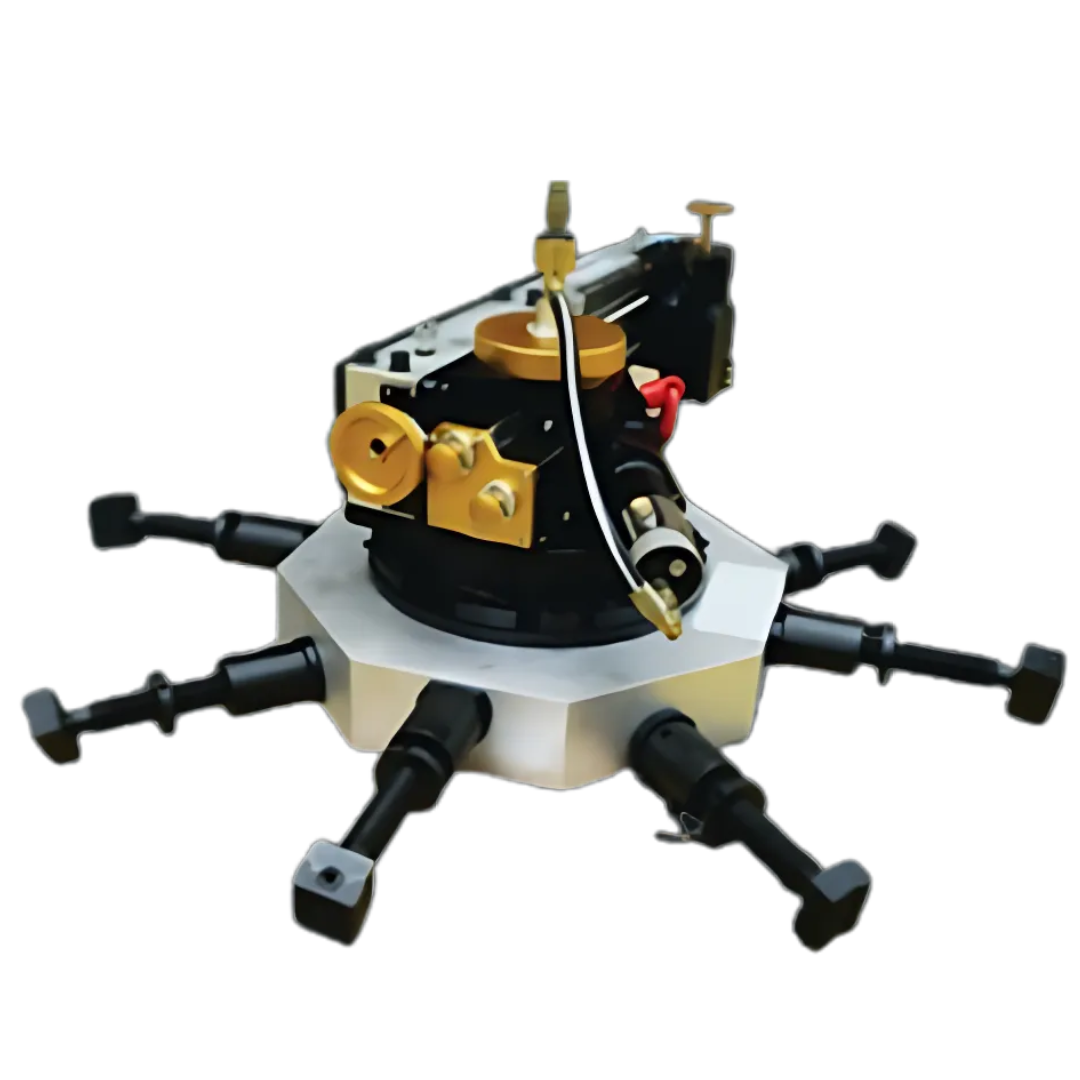
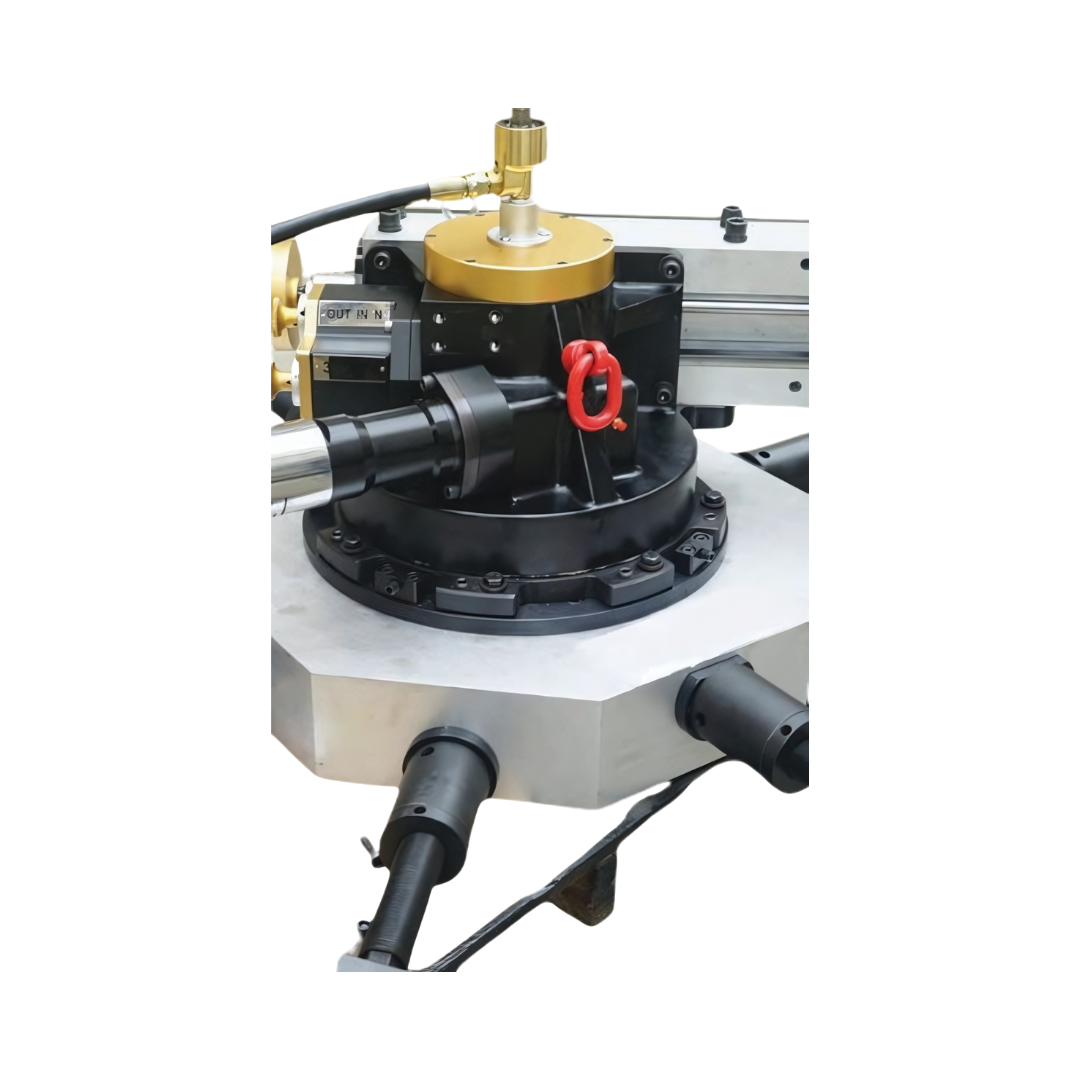
replace images of flange facing , hex-drive, subsea

Changed region(s): [[0.0, 0.0917, 1.0, 0.9167]]

diff --git a/src/layout/Navbar.jsx b/src/layout/Navbar.jsx
@@ -82,7 +82,7 @@ const closeServiceDropdown = () => {
 "bolt-tensioner": [
   { id: "topside-tensioner", name: "Top Side Bolt Tensioner", img:"product2.png",path: "topsidebolt" },
   { id: "multi-stage-tensioner", name: "Multi Stage Bolt Tensioner",img:"multistagebolt.png", path: "multistagebolt" },
-  { id: "subsea-tensioner", name: "Subsea Bolt Tensioner", img:"subsea.jpg",path: "subseabolt" },
+  { id: "subsea-tensioner", name: "Subsea Bolt Tensioner", img:"subsea.png",path: "subseabolt" },
 ],
 
     // "bolt-tensioner": [

diff --git a/src/components/SubseaBolt/SubseaBolt.jsx b/src/components/SubseaBolt/SubseaBolt.jsx
@@ -47,7 +47,7 @@ const SubseaBolt = () => {
                   rounded-tl-2xl rounded-br-2xl rounded-tr-none rounded-bl-none 
                 h-[300px]  sm:h-[400px] flex items-center justify-center">
                 <img
-                  src="subsea.jpg"
+                  src="subsea.png"
                   alt="Hydraulic Bolt Tensioner"
                   className="w-full h-full object-contain"
                 />
